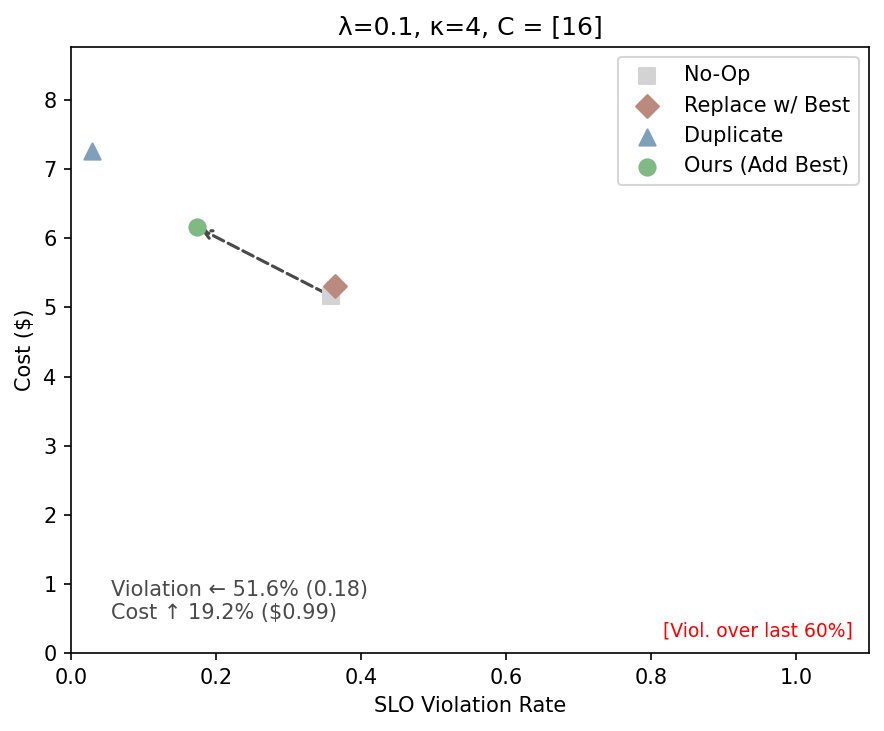
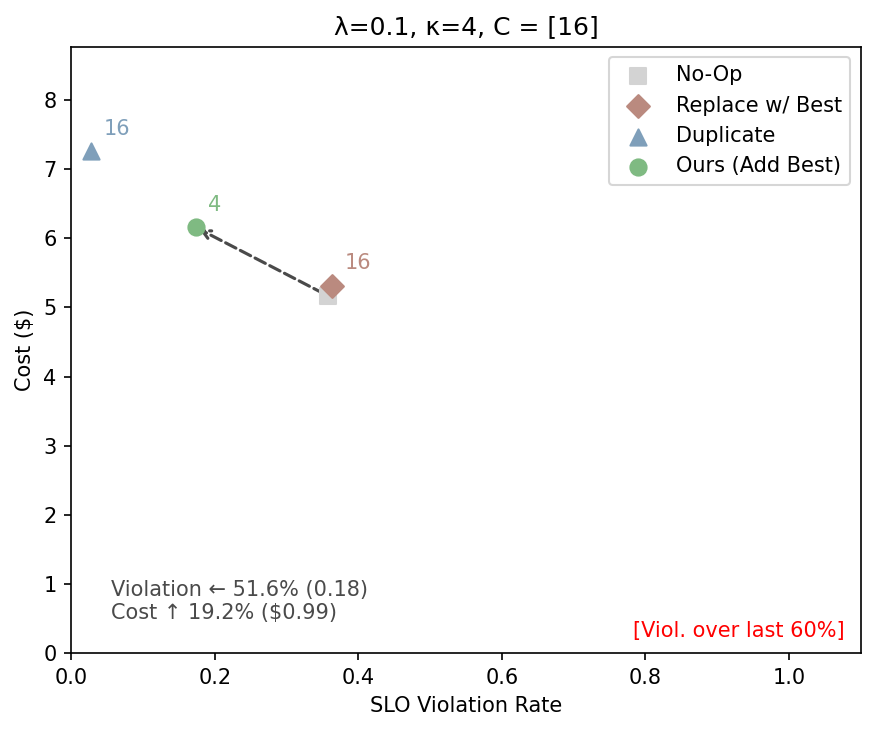
Add optional point annotations in scatter plots

diff --git a/src/autoslo/entry_points/plot.py b/src/autoslo/entry_points/plot.py
@@ -11,6 +11,7 @@ from matplotlib.axes import Axes
 from rich.console import Console
 
 import autoslo.filesystem.path_utils as pu
+from autoslo.clusters.cluster import Cluster
 from autoslo.config.component_configs import (
     SloObjectiveConfig,
     SloResolverConfig,
@@ -19,6 +20,7 @@ from autoslo.config.component_configs import (
 from autoslo.config.utils import make_run_id
 from autoslo.filesystem.config_resolver import resolve_config
 from autoslo.filesystem.path_utils import find_most_recent_live_run_id
+from autoslo.filesystem.structured_log import StructuredLog
 from autoslo.filesystem.yaml_helpers import load_yaml
 from autoslo.slo.slo_objective import SloObjective
 from autoslo.slo.slo_resolver import SloResolver
@@ -31,6 +33,28 @@ from autoslo.visualizations.scatter_plots import (
 from autoslo.workload_execution.execution_result import ExecutionResult
 
 console = Console()
+
+
+def _cluster_annotation(run_dir: Path) -> str | None:
+    """
+    Return the size of the index-1 cluster spun up.
+    """
+    log_path = run_dir / "structured_log.parquet"
+    if not log_path.exists():
+        return None
+    df = StructuredLog.load(log_path).df
+    if df.empty:
+        return None
+
+    unique_nonempty_cluster_names = df["cluster_name"].dropna().unique()
+    target_name = [
+        name for name in unique_nonempty_cluster_names if 
+        (name.strip() and (Cluster.counter_for_cluster_name(name) == 1))
+    ]
+    if len(target_name) != 1:
+        return None
+
+    return f"{Cluster.rpu_for_cluster_name(target_name[0])}"
 
 
 @dataclass
@@ -53,6 +77,7 @@ def _load_panel_data(
     *,
     layout_show_target_region: bool = False,
     layout_show_legend: bool = False,
+    layout_annotate_cluster_sizes: bool = False,
 ) -> _PanelData:
     """Parse a panel config dict into a fully-resolved _PanelData.
 
@@ -67,6 +92,9 @@ def _load_panel_data(
         "show_target_region", False
     )
     show_legend = layout_show_legend or panel.get("show_legend", False)
+    annotate_cluster_sizes: bool = layout_annotate_cluster_sizes or panel.get(
+        "annotate_with_cluster_sizes", False
+    )
 
     arrow_spec = panel.get("improvement_arrow")
     improvement_arrow = (
@@ -115,12 +143,16 @@ def _load_panel_data(
         result = ExecutionResult.load(
             run_dir, slo_resolver=slo_resolver, tail_fraction=tail_fraction
         )
+        annotation = (
+            _cluster_annotation(run_dir) if annotate_cluster_sizes else None
+        )
         scatter_points.append(
             ScatterPoint(
                 formatting_id=point["formatting_id"],
                 label=point["label"],
                 x=result.violation_for_metric(slo_obj.slo_metric),
                 y=result.total_cost,
+                annotation=annotation,
             )
         )
 
@@ -146,15 +178,17 @@ def _save_points_csv(
         )
         for row, col, panel_data in panels:
             for point in panel_data.scatter_points:
-                writer.writerow([
-                    "" if row is None else row,
-                    "" if col is None else col,
-                    panel_data.title or "",
-                    panel_data.slo_obj.slo_metric.value,
-                    point.label,
-                    point.x,
-                    point.y,
-                ])
+                writer.writerow(
+                    [
+                        "" if row is None else row,
+                        "" if col is None else col,
+                        panel_data.title or "",
+                        panel_data.slo_obj.slo_metric.value,
+                        point.label,
+                        point.x,
+                        point.y,
+                    ]
+                )
     console.print(f"[green]Saved:[/] {csv_path}")
 
 
@@ -173,7 +207,7 @@ def _annotate_ax(ax: Axes, panel_data: _PanelData, live: bool) -> None:
             color="red",
             ha="right",
             va="bottom",
-            fontsize=9,
+            fontsize=10,
         )
 
 
@@ -272,6 +306,9 @@ def _generate_multi_panel_plot(
     show_legend: bool = layout.get("show_legend", False)
     show_target_region: bool = layout.get("show_target_region", False)
     suppress_subplot_titles: bool = layout.get("suppress_subplot_titles", False)
+    annotate_cluster_sizes: bool = layout.get(
+        "annotate_with_cluster_sizes", False
+    )
 
     fig, axes_2d = plt.subplots(rows, cols, figsize=figsize, squeeze=False)
 
@@ -288,6 +325,7 @@ def _generate_multi_panel_plot(
             live,
             layout_show_target_region=show_target_region,
             layout_show_legend=show_legend,
+            layout_annotate_cluster_sizes=annotate_cluster_sizes,
         )
         _, _, xlims, ylims = cost_vs_compliance_scatter(
             panel_data.scatter_points,

diff --git a/src/autoslo/visualizations/scatter_plots.py b/src/autoslo/visualizations/scatter_plots.py
@@ -28,6 +28,7 @@ class ScatterPoint:
     label: str
     x: float
     y: float
+    annotation: str | None = None
 
 
 @dataclass
@@ -192,6 +193,17 @@ def cost_vs_compliance_scatter(
             )
         color, marker = FORMATTING.get(pt.formatting_id, (Palette.gray, "o"))
         ax.scatter(pt.x, pt.y, label=pt.label, color=color, marker=marker, s=60)
+        if pt.annotation is not None:
+            ax.annotate(
+                pt.annotation,
+                xy=(pt.x, pt.y),
+                xytext=(6, 6),
+                textcoords="offset points",
+                fontsize=10,
+                color=color,
+                ha="left",
+                va="bottom",
+            )
 
     ax.set_xlabel(x_metric_asobj.to_plot_axis_label())
     ax.set_ylabel("Cost ($)")
@@ -292,6 +304,7 @@ def cost_vs_compliance_scatter(
                     ha="left",
                     va="bottom",
                     transform=ax.transAxes,
+                    fontsize=10
                 )
 
     fig.tight_layout()

diff --git a/src/autoslo/clusters/cluster.py b/src/autoslo/clusters/cluster.py
@@ -360,7 +360,22 @@ class Cluster:
         raise ValueError(
             f"Cannot parse run ID from cluster name: {cluster_name!r}"
         )
+    
+    @staticmethod
+    def counter_for_cluster_name(cluster_name: str) -> Optional[int]:
+        """Parse counter from a cluster name.
 
+        Supports the naming convention
+        ``"autoslo-{rpu}-{run_id}-{counter}"``.
+        """
+        parts = cluster_name.split("-")
+        if len(parts) >= 4:
+            try:
+                return int(parts[3])
+            except ValueError:
+                pass
+        return None
+          
     @staticmethod
     def cost_per_second_for_rpu(
         rpu: int,
